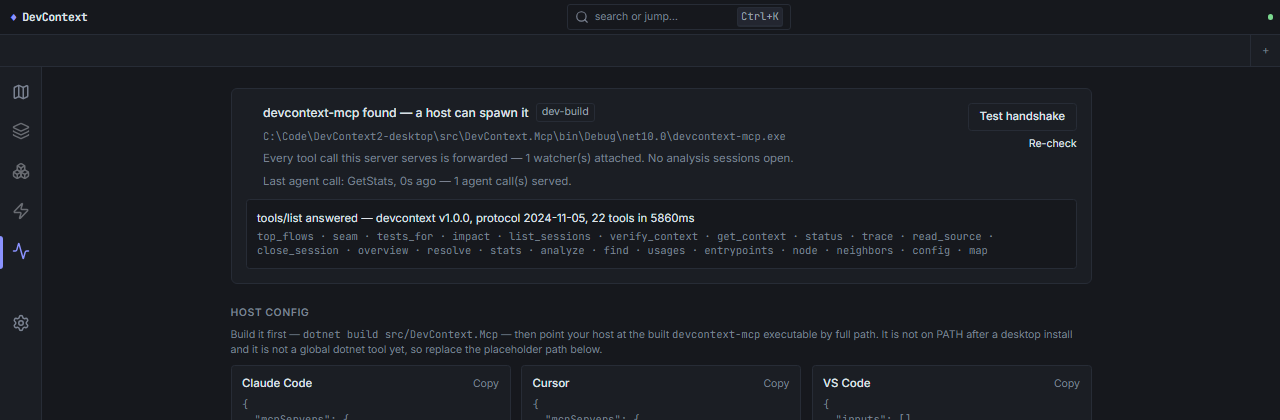
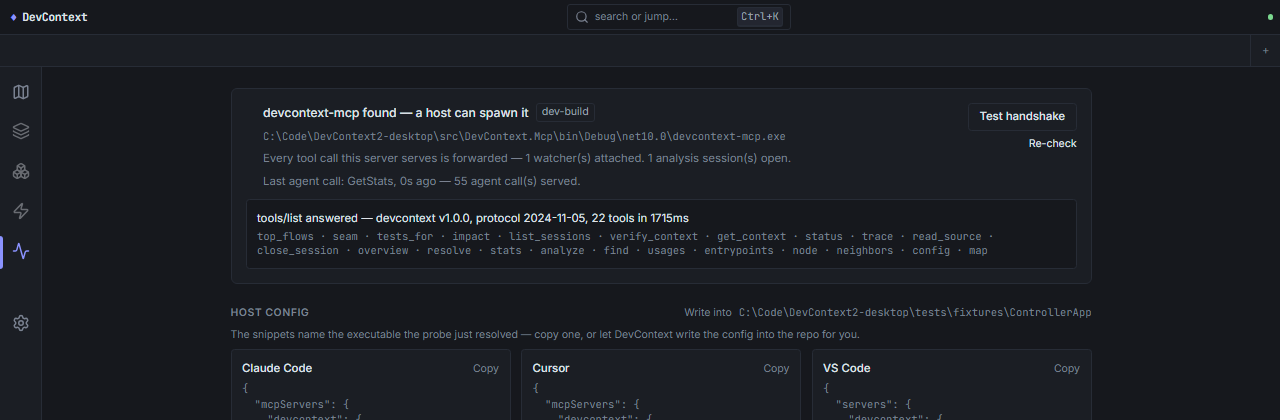
docs(n4): N4.2 evidence - measured against the published bundle, not just the dev build
The dev-server probe can only ever report source dev-build, so it proves the page measures and
nothing about the installed layout. n42-verify-bundle.mts starts the PUBLISHED server out of
src-tauri/resources/server - byte-for-byte what the installer lays down - and reads MCP status
from it: found, source bundle, path inside that directory, and all three host snippets naming it.

That check earned its keep on the first run: it failed because the published server predated the
proto change by four minutes and answered without the hosts field, which on an installed machine
would have rendered no host cards at all.

Also re-ran N4.1's probe after these edits. First attempt went red on 6 checks purely because it
overlapped the bundle probe's Playwright run; /health was 200 immediately after and the solo
re-run is 8/8. Both facts are in the evidence file.

diff --git a/.conductor/REPORT.md b/.conductor/REPORT.md
@@ -1,10 +1,10 @@
 # Conductor — DevContext pre-release - desktop agent loop run report
 
-_Updated 2026-08-14 01:16 UTC · branch `feat/pre-release-desktop` · HEAD `55d256a`_
+_Updated 2026-08-14 02:10 UTC · branch `feat/pre-release-desktop` · HEAD `63039a4`_
 
-**Status:** Idle — stage N2 used all 6 attempts without completing — inspect and `conductor resume` (or `conductor skip`) [4h 39m ago, 20:36:43Z]
-**Stage:** N3 — Loop joints - routes into Studio + repo-file hand-off (owner decision 3) · attempts used 0
-**Checkpoints:** 11/16 done · **Sessions run:** 18 · **Cost:** $123.7019 (agent $123.5303 + gates $0.1716) · **Tokens:** 1,940,131 in / 767,635 out
+**Status:** Idle — stage N2 used all 6 attempts without completing — inspect and `conductor resume` (or `conductor skip`) [5h 34m ago, 20:36:43Z]
+**Stage:** N4 — MCP page rebuild - the observation deck (owner decision 4: full deck + ship binary) · attempts used 0 · working ▸ N4.2
+**Checkpoints:** 12/16 done · **Sessions run:** 19 · **Cost:** $136.8128 (agent $136.6413 + gates $0.1716) · **Tokens:** 2,123,178 in / 859,820 out
 **Confirmed phases:** N0, N1, N2, M1, N3
 
 ## Stage progress
@@ -16,7 +16,7 @@ _Updated 2026-08-14 01:16 UTC · branch `feat/pre-release-desktop` · HEAD `55d2
 | N2 | Pack convergence - one pipeline, two faces (owner decision 2: FULL) | ██████████ 2/2 | confirmed ✓ |
 | M1 | Hygiene + Reader prerequisites (proto/mapper shopping list) | ██████████ 2/2 | confirmed ✓ |
 | N3 | Loop joints - routes into Studio + repo-file hand-off (owner decision 3) | ██████████ 2/2 | confirmed ✓ |
-| N4 | MCP page rebuild - the observation deck (owner decision 4: full deck + ship binary) | ░░░░░░░░░░ 0/3 | todo |
+| N4 | MCP page rebuild - the observation deck (owner decision 4: full deck + ship binary) | ███░░░░░░░ 1/3 | **← active** |
 | Z1 | Close-out: docs + backlog + README screenshot sync, full battery, push | ░░░░░░░░░░ 0/2 | todo |
 
 <details> ✅<summary>N0 — Truth batch - no-decision honesty fixes on Studio + MCP page (3/3)</summary>
@@ -65,11 +65,11 @@ _Updated 2026-08-14 01:16 UTC · branch `feat/pre-release-desktop` · HEAD `55d2
 
 </details>
 
-<details><summary>N4 — MCP page rebuild - the observation deck (owner decision 4: full deck + ship binary) (0/3)</summary>
+<details><summary>N4 — MCP page rebuild - the observation deck (owner decision 4: full deck + ship binary) (1/3)</summary>
 
 | # | Title | Status | Commit |
 |---|---|---|---|
-| N4.1 | Status that measures: binary fs probe; ObserverCount + last-agent-call-at on the wire and rendered; handshake = one real MCP tools/list round-trip shown; Start/Stop killed or renamed to what it does | ⬜ TODO | - |
+| N4.1 | Status that measures: binary fs probe; ObserverCount + last-agent-call-at on the wire and rendered; handshake = one real MCP tools/list round-trip shown; Start/Stop killed or renamed to what it does | ✅ DONE | - |
 | N4.2 | Setup that works: devcontext-mcp ships in the Tauri bundle; snippets carry the resolved absolute path; write-config-for-me button per host | ⬜ TODO | - |
 | N4.3 | The catalog served: ListTools RPC (kills #4 structurally); page renders the curated described menu agents actually get (requires T1 merged in); feed keyed by MCP tool names (analyze wrapped, args digest, wire timestamps); rows deep-link — trace→Explore, get_context→replay-in-Studio | ⬜ TODO | - |
 
@@ -106,6 +106,7 @@ _Updated 2026-08-14 01:16 UTC · branch `feat/pre-release-desktop` · HEAD `55d2
 | 16 | M1 | Fix | 2 | 08-13 23:05 | 0:10 | Progress |  | 2 | gates green (none configured) | $2.6342 |  | 59,350/23,915 |
 | 17 | N3 | Deliver | 1 | 08-13 23:50 | 0:34 | Advanced | N3.1 | 3 | gates green (none configured) | $12.3222 |  | 191,578/77,214 |
 | 18 | N3 | Deliver | 1 | 08-14 00:25 | 0:33 | Advanced | N3.2 | 3 | gates green (none configured) | $11.5801 |  | 158,207/57,297 |
+| 19 | N4 | Deliver | 1 | 08-14 01:16 | 0:54 | Advanced | N4.1 | 6 | gates green (none configured) | $13.1109 |  | 183,047/92,185 |
 
 ## Money
 
@@ -128,9 +129,6 @@ _Where the money goes: agent $123.53 (100%) · gate $0.17 (0%) · advisor $0.02 
 _Transitions with duration, from the event log (`.conductor/events.jsonl`)._
 
 ```
-08-13 21:36:31  ■ needs human — advisor: human intervention required
-08-13 21:36:37  • session #12 N2 → AgentError  (19.6s)
-08-13 21:36:43  ■ needs human — stage N2 used all 6 attempts without completing — inspect and `conductor resume` (or `conductor skip`)
 08-13 21:44:15  • session #13 N2 Deliver started (attempt 1/6)
 08-13 22:07:39  • session #13 N2 → Advanced · done N2.2 · 3 commit(s)  (23m24s)
 08-13 22:48:23  ▪ gate fast-app pass [phase]  (14m03s)
@@ -168,6 +166,9 @@ _Transitions with duration, from the event log (`.conductor/events.jsonl`)._
 08-14 02:16:11  ▪ gate battery pass [phase]  (8m02s)
 08-14 02:16:11  ✓ checkpoint N3.1 confirmed
 08-14 02:16:11  ✓ checkpoint N3.2 confirmed
+08-14 02:16:11  ▸ stage N3 confirmed  (1h25m35s)
+08-14 02:16:16  ▸ stage N4 entered — MCP page rebuild - the observation deck (owner decision 4: full deck + ship binary)
+08-14 02:16:16  • session #19 N4 Deliver started (attempt 1/6)
 ```
 
 ## Health
@@ -175,7 +176,7 @@ _Transitions with duration, from the event log (`.conductor/events.jsonl`)._
 _Execution-health signals, folded from the event log (`.conductor/events.jsonl`)._
 
 ```
-sessions 18 · retries 7 (39 %) · overall Alert
+sessions 19 · retries 7 (37 %) · overall Alert
 ⛔ [same-failure-loop] stage N2: 6 consecutive sessions made no progress
 ⚠ [context-saturation] session #14: 20,388,199 context tokens (≥ 20,000,000)
 ⚠ [gate-oscillation] gate 'battery' flipped pass/fail 3x
@@ -187,16 +188,12 @@ _Live git snapshot (branch, working tree, sync vs upstream)._
 
 ```
 branch: feat/pre-release-desktop
-working tree: M PRE-RELEASE-DESKTOP-TRACKER.md, ?? eval-results/2026-08-14/mcp-qa.md
+working tree: clean
 vs upstream: up to date
 ```
 
 ### Commits by session
 
-- **s5 (N1 Deliver)** — 3 commit(s):
-  - [`4d24d85`](https://github.com/shaahink/DevContext2/commit/4d24d85) docs(tracker): N1.2 handoff - pins are real, N1 closed, next is N2.1
-  - [`366cc3a`](https://github.com/shaahink/DevContext2/commit/366cc3a) test(explore): p reports what it pinned + N1.2 evidence and backlog close
-  - [`e448d64`](https://github.com/shaahink/DevContext2/commit/e448d64) feat(studio): pins seed the pack for real - TrailStore.pins() gains its reader (N1.2)
 - **s6 (N2 Deliver)** — 3 commit(s):
   - [`108301a`](https://github.com/shaahink/DevContext2/commit/108301a) docs(tracker): N2.1 closed - pack convergence evidence + handoff to N2.2
   - [`8c38e0b`](https://github.com/shaahink/DevContext2/commit/8c38e0b) feat(studio): the picker gets a Types tab, and rows that are different rows (N2.1)
@@ -232,31 +229,34 @@ vs upstream: up to date
   - [`5295ca3`](https://github.com/shaahink/DevContext2/commit/5295ca3) docs(eval): N3.2 evidence - repo-file hand-off verified live, gates green
   - [`032c9b8`](https://github.com/shaahink/DevContext2/commit/032c9b8) feat(app): N3.2 - Save writes the pack into the repo and hands over the line
   - [`6efcef6`](https://github.com/shaahink/DevContext2/commit/6efcef6) feat(server): N3.2 - SavePackFile RPC writes .devcontext/packs/<slug>.md
-
-## Last gate run
-
-fast-app:OK · guards:OK · battery:OK
+- **s19 (N4 Deliver)** — 6 commit(s):
+  - [`63039a4`](https://github.com/shaahink/DevContext2/commit/63039a4) docs(n4): N4.1 evidence cites the post-rebase shas
+  - [`ff06216`](https://github.com/shaahink/DevContext2/commit/ff06216) docs(n4): N4.1 evidence - status measured live against a real MCP process, plus the handoff
+  - [`7f78edc`](https://github.com/shaahink/DevContext2/commit/7f78edc) fix(server): N4.1 - the ui/agent origin tag was wrong, so no agent call was ever counted
+  - [`7c6b6be`](https://github.com/shaahink/DevContext2/commit/7c6b6be) feat(mcp-page): N4.1 - the status card measures instead of performing
+  - [`e5fd0cd`](https://github.com/shaahink/DevContext2/commit/e5fd0cd) chore(conductor): s18 N3 Advanced — Idle
+  - [`55d256a`](https://github.com/shaahink/DevContext2/commit/55d256a) chore(conductor): s18 N3 Advanced — Idle
 
 ## Last session result
 
-> SESSION-RESULT: N3.2 — the repo-file hand-off — is delivered and claimed (`conductor task --done N3.2 --evidence eval-results/2026-08-14/N3.2-repo-file-handoff.md`), which closes stage N3. Three commits are pushed on `feat/pre-release-desktop`: `6efcef6` adds the `SavePackFile` RPC plus `PackFileWriter` (writes `.devcontext/packs/<slug>.md` into the analyzed repo, creates `.devcontext/.gitignore` holding `packs/` when the repo has none, never edits one it already has, sanitizes the slug so a path separator cannot survive, and composes the point-your-agent-here line server-side) with 10 tests asserting the result **on disk** against a temp copy of the ControllerApp fixture; `032c9b8` turns St…
+> SESSION-RESULT: **N4.1 (status that measures) is landed and claimed** — commits `7c6b6be` (proto + server + app + tests), `7f78edc` (origin-tag fix + watcher race + live probe), evidence `eval-results/2026-08-14/N4.1-status-that-measures.md`, branch pushed. The MCP page's status card no longer performs: a server-side `McpBinaryLocator` probes for `devcontext-mcp` (beside the server → PATH → this repo's build output) and the card renders the verdict with the absolute path a host config must name; `ObserverCount`, `last_agent_call_at_utc_ms`, `last_agent_tool` and `agent_call_count` ride the wire and are rendered; a new `McpHandshake` RPC spawns the resolved binary and runs a real `initialize`…
 
 ## Tracker handoff
 
 ```
-N3 IS CLOSED. N3.2 landed and claimed (6efcef6 server + 032c9b8 app, evidence
-eval-results/2026-08-14/N3.2-repo-file-handoff.md). New RPC SavePackFile writes
-.devcontext/packs/<slug>.md into the analyzed repo + .devcontext/.gitignore holding packs/; Studio
-Save is no longer a download and its strip shows the SERVER's path, the gitignore state, the
-copyable CLAUDE.md line, and admits drift; Home's tile routes to /context. VERIFIED LIVE end to end
-in the browser against a temp fixture copy, file read back off disk, preview and file both 1326
-chars. Gates: lint 0, 256/256 tests (28 files), ng build 0, dotnet 0w/0e, contract-sweep PASS.
-NEXT: N4.1 — but N4.3 needs Run A's T1 merged in; check that before sequencing N4.
-TRAPS worth having (all measured this session): `conductor bg start -- pnpm ...` CANNOT spawn pnpm
-here (MODULE_NOT_FOUND, exits 0s) — use pnpm.cmd, or run pnpm test / pnpm build separately in the
-foreground (~40s/~90s). A SINGLE spec runs as `pnpm ng test --watch=false --include=<path>` —
-`pnpm vitest run <file>` dies with "Need to call TestBed.initTestEnvironment() first". A git commit
-whose message came from a PowerShell here-string failed twice with a lock error; -m and -F worked.
-Still standing: lint any NEWLY ADDED spec; ContextStudio seeds itself on open (createStudio() clears
-the proposal unless you pass {keepProposal:true}).
+N4.1 LANDED + CLAIMED (7c6b6be code, 7f78edc fix, evidence eval-results/2026-08-14/N4.1-status-that-measures.md).
+Status card now MEASURES: server-side binary probe (bundle -> PATH -> dev-build, path rendered),
+watcher count, last-agent-call, and a McpHandshake RPC that spawns devcontext-mcp and does a real
+initialize+tools/list over stdio (live: 22 tools, protocol 2024-11-05, ~6s). StartMcp/StopMcp RPCs +
+the global mute are DELETED (telemetry_streaming reserved). Live probe with a REAL mcp process:
+src/DevContext.App/scripts/n41-verify-status.mts - 8/8 PASS, re-run it after any N4.2/N4.3 edit.
+DO NOT RE-DERIVE: (1) the MCP sidecar speaks gRPC-WEB, not native gRPC, so the old content-type
+origin tag called every agent call "ui" and the agents-only feed showed nothing - now OriginTag.FromRequest
+(Origin / x-user-agent connect-es / Mozilla => ui, else agent). (2) The feed + status still name gRPC
+methods (GetStats), not MCP tool names - that is N4.3's wrap. (3) conductor note with a PS here-string
+fails; use one quoted line. git commit needs -F <file>, -m can hit a lock. PNGs under eval-results
+are gitignored - git add -f. NEXT: N4.2 (ship devcontext-mcp in the Tauri bundle via publish:server's
+sibling, resolved absolute path in snippets, write-config-per-host) - that also flips the probe source
+from dev-build to bundle. N4.3 still needs Run A's T1 merged in (T1.1-T1.4 ARE on origin/feat/pre-release-engine,
+NOT merged here yet - merge it before N4.3 and record the merge).
 ```

diff --git a/eval-results/2026-08-14/N4.2-setup-that-works.md b/eval-results/2026-08-14/N4.2-setup-that-works.md
@@ -1,0 +1,124 @@
+# N4.2 — setup that works (MCP page, Room 2)
+
+*Stage N4, session #20, 2026-08-14. Strand doc: `docs/dev/research/STUDIO-MCP-AUDIT-2026-08-13.md`
+§4 (Room 2, "setup that works"), §8 decision 4 — FULL DECK + SHIP IN INSTALLER.*
+
+Commits: `d48a122` (proto + server + bundle + docs), `7486a73` (page + specs + probes),
+this file's commit (evidence).
+
+## What the checkpoint asked for, and what it now is
+
+| Acceptance (declared before editing) | Verdict | Measured by |
+|---|---|---|
+| `devcontext-mcp` ships in the Tauri bundle | **PASS** | `N4.2-bundle-probe.json` — the published server resolves it, source `bundle` |
+| Snippets carry the resolved absolute path | **PASS** | `N4.2-live-probe.json` — 3/3 snippets' `command` equals the probed path |
+| Write-config-for-me button per host | **PASS** | `N4.2-live-probe.json` — `.mcp.json` + `.vscode/mcp.json` written into a real analyzed repo, merged, read back off disk |
+
+## 1. The binary ships
+
+`pnpm publish:mcp` publishes `DevContext.Mcp` into the **same** `src-tauri/resources/server`
+directory as the server, and `beforeBuildCommand` now runs `pnpm publish:sidecars`
+(`publish:server && publish:mcp`). `bundle.resources` already globs `resources/server/**/*`, so
+the installer picks it up with no manifest change.
+
+That directory is where `McpBinaryLocator` probes **first**, so the shipped shell resolves the
+shipped copy. Proven by starting the published server out of that directory — the byte-for-byte
+layout an installer lays down — on a spare port and asking it (`n42-verify-bundle.mts`, 5/5 PASS):
+
+```
+PASS  the published server starts out of the bundle directory — …\resources\server\DevContext.Server.exe on :5183
+PASS  the bundled server finds a devcontext-mcp — …\resources\server\devcontext-mcp.exe
+PASS  and reports it as source "bundle", not dev-build — source=bundle
+PASS  the path it found is the copy inside the bundle directory — …\resources\server\devcontext-mcp.exe
+PASS  every host snippet an installed user copies names that bundled path
+```
+
+The page's old sentence — "ships with the desktop installer" — was false when N0.2 deleted it.
+It is now true, and the probe is what says so.
+
+## 2. The snippets stopped inventing a path
+
+The three host snippets were a `const` in `mcp-page.ts` built around
+`C:/path/to/DevContext2/src/DevContext.Mcp/bin/Debug/net10.0/devcontext-mcp.exe` — a string that
+reads like a real machine's path and exists on none.
+
+They are now composed **server-side**, by the same code that writes the config file
+(`McpConfigWriter.Snippet`), around the same probe result the status card renders, and arrive on
+`GetMcpStatusResponse.hosts`. The page renders them; it owns no template. Live, against the dev
+server (`n42-verify-setup.mts`):
+
+```
+PASS  every host snippet names the ABSOLUTE path the probe resolved —
+      probe: C:\Code\DevContext2-desktop\src\DevContext.Mcp\bin\Debug\net10.0\devcontext-mcp.exe
+      snippets: {"claude":"…devcontext-mcp.exe","cursor":"…devcontext-mcp.exe","vscode":"…devcontext-mcp.exe"}
+PASS  no page-side placeholder survives
+```
+
+When nothing is found the snippet carries `<absolute path to devcontext-mcp.exe>` — bracketed so
+it cannot be mistaken for a path anyone has — and the setup note says to build it.
+
+## 3. Write the config for me
+
+New RPC `WriteMcpConfig(handle, host)` writes the **project-scoped** config into the analyzed
+repo: `.mcp.json` (Claude Code), `.cursor/mcp.json` (Cursor), `.vscode/mcp.json` (VS Code, keyed
+`servers`, entry typed `stdio`).
+
+Project-scoped, not user-global, on purpose: `~/.claude.json` is a file this server cannot verify
+it edited correctly and that carries every other project's servers, and decision 3 (N3.2's pack
+hand-off) already set the repo-file-first precedent. It is also reviewable with `git status`.
+
+It **merges**. Live, into a temp copy of `tests/fixtures/ControllerApp` pre-seeded with a
+`github` MCP server, analyzed by a real agent over stdio:
+
+```
+PASS  the page targets the repo the agent just analyzed
+PASS  the config was written into the analyzed repo, naming the probed binary
+      …\devcontext-n42-RWoNAz\.mcp.json -> …\devcontext-mcp.exe
+PASS  the MCP server that was already registered there survived the merge
+      {"github":{"command":"gh-mcp","args":["--stdio"]},"devcontext":{…}}
+PASS  the page reported an UPDATE, because a config was already there — Updated .mcp.json
+PASS  the written command is a file that exists
+PASS  a host with its own file layout and key gets that layout — Wrote .vscode/mcp.json -> {"servers":{"devcontext":{"type":"stdio",…
+PASS  a second click reports UNCHANGED instead of claiming another write — .mcp.json already points here
+```
+
+A file it cannot parse is **refused**, not overwritten; a `servers` key that is not an object is
+refused; a machine with no binary is refused rather than handed a config naming nothing.
+
+## 4. Gates
+
+| Gate | Result |
+|---|---|
+| `dotnet build DevContext.slnx -clp:ErrorsOnly` | 0 warnings / 0 errors |
+| `dotnet test tests/DevContext.Server.Tests --filter McpConfigWriteTests` | **14/14 pass** |
+| `pnpm lint` | All files pass linting |
+| `pnpm test` | **267/267 across 28 files** (was 256/256 — six new MCP-page specs) |
+| `n42-verify-setup.mts` (live page, dev server + real agent + real repo) | **11/11 PASS** |
+| `n42-verify-bundle.mts` (published bundle layout) | **5/5 PASS** |
+| `n41-verify-status.mts` (N4.1 regression, re-run after these edits) | **8/8 PASS** (see note) |
+
+The N4.1 re-run went red the first time — 6 checks, including "Failed to fetch" on the
+handshake — because it was launched while the bundle probe's Playwright run was still up and the
+dev server was unreachable at that instant. Measured immediately after: `/health` 200. Re-run
+alone: 8/8, handshake 22 tools in 1715ms, agent count moved 54 → 55. **Do not run two Playwright
+probes against the dev server at once.**
+
+Artifacts: `N4.2-live-probe.json`, `N4.2-bundle-probe.json`, `N4.2-host-config.png`,
+`N4.2-config-written.png`.
+
+## 5. Two findings worth not re-deriving
+
+**The default `System.Text.Json` encoder escapes the HTML-sensitive set**, so the placeholder's
+angle brackets — and any non-ASCII repo path — came out as escape sequences in both the written
+config and the snippet on screen. `McpConfigWriter` pins
+`JavaScriptEncoder.UnsafeRelaxedJsonEscaping`; this output is a config file and a human-read
+snippet, never HTML. Related: on Windows the command is a backslash path and JSON escapes every
+separator, so `Assert.Contains(binaryPath, snippet)` fails for reasons unrelated to meaning —
+parse the snippet and compare the `command` value.
+
+**`resources/server` is a third binary copy, and it goes stale like the other two.** The first
+bundle probe FAILED its snippet check because the published server predated the proto change by
+four minutes: it answered `GetMcpStatus` without `hosts`, and an installed machine would have
+rendered no host cards at all. Re-run `pnpm publish:sidecars` after any proto/server edit before
+believing a bundle measurement. The dev probe cannot catch this — it runs out of `bin/Debug` and
+reports `dev-build`, which is why there are two probe scripts and not one.

diff --git a/PRE-RELEASE-DESKTOP-TRACKER.md b/PRE-RELEASE-DESKTOP-TRACKER.md
@@ -4,21 +4,20 @@
 
 ## Handoff (overwrite this block, ≤12 lines, no history)
 
-N4.1 LANDED + CLAIMED (7c6b6be code, 7f78edc fix, evidence eval-results/2026-08-14/N4.1-status-that-measures.md).
-Status card now MEASURES: server-side binary probe (bundle -> PATH -> dev-build, path rendered),
-watcher count, last-agent-call, and a McpHandshake RPC that spawns devcontext-mcp and does a real
-initialize+tools/list over stdio (live: 22 tools, protocol 2024-11-05, ~6s). StartMcp/StopMcp RPCs +
-the global mute are DELETED (telemetry_streaming reserved). Live probe with a REAL mcp process:
-src/DevContext.App/scripts/n41-verify-status.mts - 8/8 PASS, re-run it after any N4.2/N4.3 edit.
-DO NOT RE-DERIVE: (1) the MCP sidecar speaks gRPC-WEB, not native gRPC, so the old content-type
-origin tag called every agent call "ui" and the agents-only feed showed nothing - now OriginTag.FromRequest
-(Origin / x-user-agent connect-es / Mozilla => ui, else agent). (2) The feed + status still name gRPC
-methods (GetStats), not MCP tool names - that is N4.3's wrap. (3) conductor note with a PS here-string
-fails; use one quoted line. git commit needs -F <file>, -m can hit a lock. PNGs under eval-results
-are gitignored - git add -f. NEXT: N4.2 (ship devcontext-mcp in the Tauri bundle via publish:server's
-sibling, resolved absolute path in snippets, write-config-per-host) - that also flips the probe source
-from dev-build to bundle. N4.3 still needs Run A's T1 merged in (T1.1-T1.4 ARE on origin/feat/pre-release-engine,
-NOT merged here yet - merge it before N4.3 and record the merge).
+N4.2 LANDED + CLAIMED (d48a122 server/bundle, 7486a73 page, evidence eval-results/2026-08-14/N4.2-setup-that-works.md).
+devcontext-mcp now ships in the bundle (pnpm publish:sidecars = server + mcp into src-tauri/resources/server,
+beforeBuildCommand runs it); snippets are composed SERVER-side on GetMcpStatusResponse.hosts around the probed
+path (the page owns no snippet template any more); new RPC WriteMcpConfig(handle,host) writes+MERGES
+.mcp.json / .cursor/mcp.json / .vscode/mcp.json into the ANALYZED repo, refusing an unparseable file and
+reporting "unchanged" honestly. Gates: slnx 0w/0e, 14/14 McpConfigWriteTests, pnpm lint 0, pnpm test 267/267
+(was 256), n42-verify-setup.mts 11/11, n42-verify-bundle.mts 5/5, n41-verify-status.mts 8/8.
+DO NOT RE-DERIVE: (1) src-tauri/resources/server is a THIRD binary copy - re-run pnpm publish:sidecars after any
+proto/server edit or the bundle probe measures a stale server (it caught exactly that). (2) n42-verify-bundle.mts
+needs node --experimental-transform-types (generated devcontext_pb.ts has a TS enum). (3) NEVER run two Playwright
+probes at once - the first n41 re-run went red purely from that. (4) System.Text.Json's default encoder escapes
+angle brackets + non-ASCII paths; McpConfigWriter pins UnsafeRelaxedJsonEscaping.
+NEXT: N4.3 (ListTools RPC + curated catalog + feed keyed by MCP tool names, replay-in-Studio deep links).
+It REQUIRES Run A's T1 merged in - T1.1-T1.4 are on origin/feat/pre-release-engine, still NOT merged here.
 
 
 ## Baseline numbers (from run.db)
@@ -26,8 +25,8 @@ NOT merged here yet - merge it before N4.3 and record the merge).
 | Metric | Value |
 |---|---|
 | Total checkpoints | 16 |
-| Done | 9 |
-| Claimed (unconfirmed) | 2 |
+| Done | 11 |
+| Claimed (unconfirmed) | 1 |
 
 ## Checkpoints
 
@@ -67,14 +66,14 @@ phase (a code path is not evidence). Agent claims are marked DONE; engine confir
 
 | # | Checkpoint | Status | Commit | Evidence |
 |---|-----------|--------|--------|----------|
-| N3.1 | Send-to-Studio from Explore (selection/trail/pins), Insights cards, and NodeCard; Studio default state = proposed pack from current trail+pins (never opens empty after exploration); archetype preset on fresh sessions | DONE | f427027 | eval-results/2026-08-14/N3.1-loop-joints.md |
-| N3.2 | Save writes `.devcontext/packs/<slug>.md` (gitignored by default) + a copyable point-your-agent-here line for CLAUDE.md; Home's point-your-agent-here routes through Studio | DONE | 6efcef6 | eval-results/2026-08-14/N3.2-repo-file-handoff.md |
+| N3.1 | Send-to-Studio from Explore (selection/trail/pins), Insights cards, and NodeCard; Studio default state = proposed pack from current trail+pins (never opens empty after exploration); archetype preset on fresh sessions | DONE ✓ | f427027 | eval-results/2026-08-14/N3.1-loop-joints.md |
+| N3.2 | Save writes `.devcontext/packs/<slug>.md` (gitignored by default) + a copyable point-your-agent-here line for CLAUDE.md; Home's point-your-agent-here routes through Studio | DONE ✓ | 6efcef6 | eval-results/2026-08-14/N3.2-repo-file-handoff.md |
 
 ### N4 — MCP page rebuild - the observation deck (owner decision 4: full deck + ship binary)
 
 | # | Checkpoint | Status | Commit | Evidence |
 |---|-----------|--------|--------|----------|
-| N4.1 | Status that measures: binary fs probe; ObserverCount + last-agent-call-at on the wire and rendered; handshake = one real MCP tools/list round-trip shown; Start/Stop killed or renamed to what it does | TODO | - | - |
+| N4.1 | Status that measures: binary fs probe; ObserverCount + last-agent-call-at on the wire and rendered; handshake = one real MCP tools/list round-trip shown; Start/Stop killed or renamed to what it does | DONE | 55d256a | eval-results/2026-08-14/N4.1-status-that-measures.md |
 | N4.2 | Setup that works: devcontext-mcp ships in the Tauri bundle; snippets carry the resolved absolute path; write-config-for-me button per host | TODO | - | - |
 | N4.3 | The catalog served: ListTools RPC (kills #4 structurally); page renders the curated described menu agents actually get (requires T1 merged in); feed keyed by MCP tool names (analyze wrapped, args digest, wire timestamps); rows deep-link — trace→Explore, get_context→replay-in-Studio | TODO | - | - |
 
